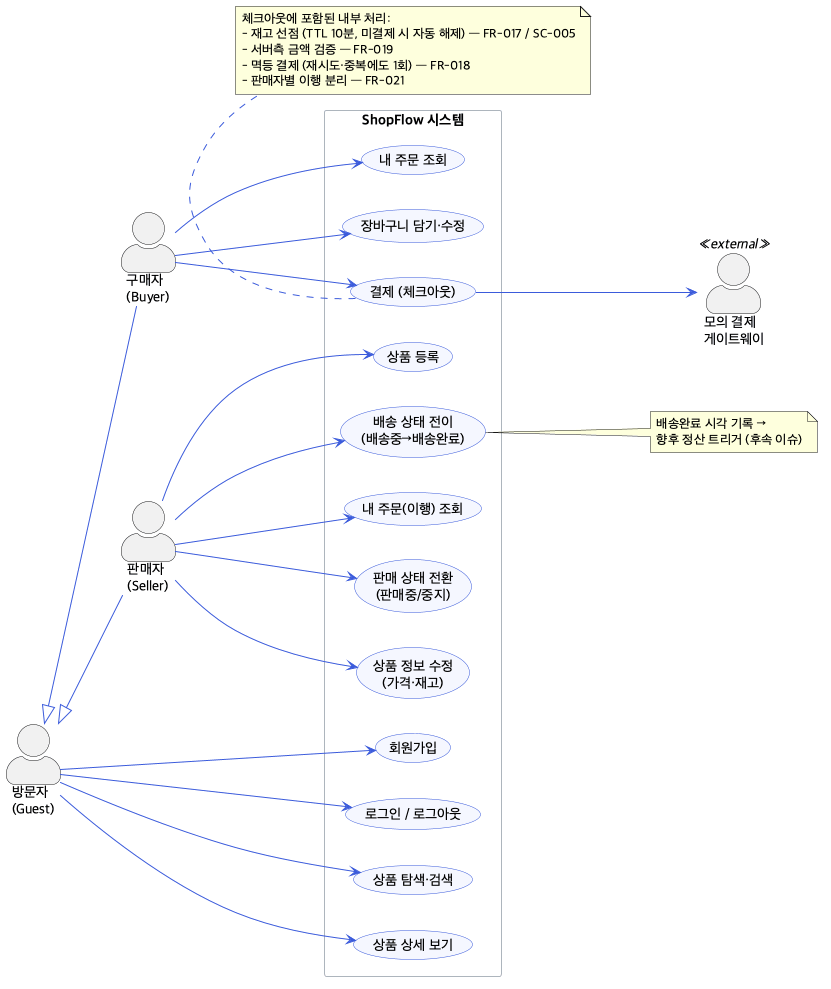
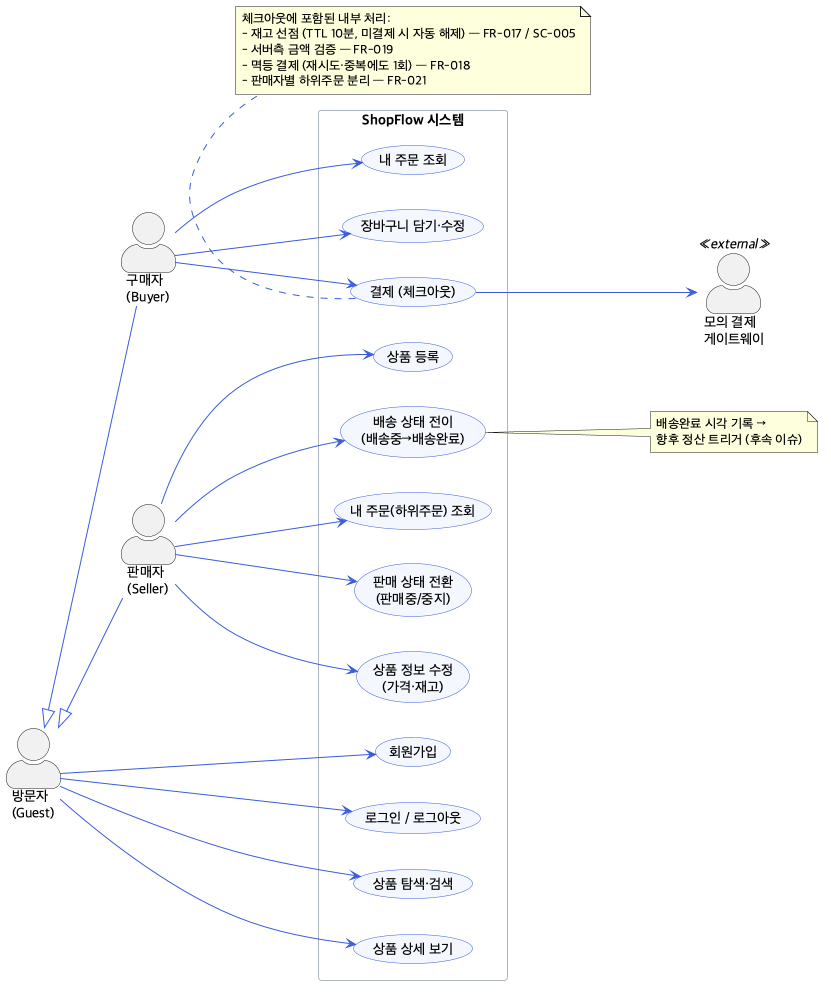
refactor(spec): Fulfillment → SubOrder(하위주문) 용어 개편 (#2)
- 모델을 Order→SubOrder→OrderLine 2계층 하위주문 구조로 재표현(안 A)
- data-model/plan/research/contracts/quickstart/spec/usecases 용어 일괄 치환
- 도메인 클래스·유즈케이스·비즈니스 프로세스 다이어그램 재렌더
- ADR-0005 제목·본문, ADR README 반영
- spec 핵심 엔티티에서 SubOrder와 OrderLine 명확히 분리

Refs #2

diff --git a/specs/001-marketplace-core/data-model.md b/specs/001-marketplace-core/data-model.md
@@ -13,15 +13,15 @@
 User 1─* Product           (판매자 소유)
 User 1─1 Cart 1─* CartItem  (구매자 장바구니)
 User 1─* Order              (구매자 주문)
-Order 1─* Fulfillment       (판매자별 이행 단위)
-Fulfillment *─1 User(seller)
-Fulfillment 1─* OrderLine   (스냅샷 라인)
+Order 1─* SubOrder       (판매자별 하위주문)
+SubOrder *─1 User(seller)
+SubOrder 1─* OrderLine   (스냅샷 라인)
 Order 1─1 Payment
 Product 1─* StockReservation
 Payment 1─1 PaymentIdempotency(key)
 ```
 
-> User는 역할(구매자/판매자)을 복수 보유(FR-004). "판매자"는 상품·이행 단위를 소유한 User.
+> User는 역할(구매자/판매자)을 복수 보유(FR-004). "판매자"는 상품·하위주문을 소유한 User.
 
 ---
 
@@ -86,26 +86,26 @@ Payment 1─1 PaymentIdempotency(key)
 | buyerId | Long (FK→User) | 구매자 |
 | totalKrw | long | 총액(정수 원), 서버 산출 (FR-019) |
 | shippingAddress | Address(값) | 배송지(수령인·주소·연락처) |
-| status | OrderStatus | 이행 단위 집계 상태 |
+| status | OrderStatus | 하위주문 집계 상태 |
 | placedAt | Instant | 결제완료 시각 |
 
 - **OrderStatus**(enum, 집계): `PAID`, `PARTIALLY_SHIPPED`, `SHIPPED`, `COMPLETED`.
-  이행 단위 상태들의 집계로 산출(R4). (예: 전 이행 DELIVERED → `COMPLETED`.)
+  하위주문 상태들의 집계로 산출(R4). (예: 모든 하위주문이 DELIVERED → `COMPLETED`.)
 - 한 번의 결제 = 하나의 Order(멱등, R3).
 
-## Fulfillment (이행 단위 = 판매자별 하위 주문)
+## SubOrder (하위주문 = 판매자별 하위 주문)
 
 | 필드 | 타입 | 설명 |
 |---|---|---|
-| id | Long (PK) | 이행 단위 식별자 |
+| id | Long (PK) | 하위주문 식별자 |
 | orderId | Long (FK→Order) | 소속 주문 |
 | sellerId | Long (FK→User) | 담당 판매자 |
 | subtotalKrw | long | 이 판매자 분 소계(정수 원) — 향후 정산 기준 |
-| status | FulfillmentStatus | 이행 상태 |
+| status | SubOrderStatus | 배송 상태 |
 | shippedAt | Instant? | 배송중 전이 시각 |
 | deliveredAt | Instant? | 배송완료 시각(향후 정산 트리거) |
 
-- **FulfillmentStatus**(enum): `PAID`(결제완료) → `SHIPPING`(배송중) → `DELIVERED`(배송완료).
+- **SubOrderStatus**(enum): `PAID`(결제완료) → `SHIPPING`(배송중) → `DELIVERED`(배송완료).
 - **상태 전이 규칙**(R4, FR-011/FR-022):
   - 허용: `PAID→SHIPPING`, `SHIPPING→DELIVERED`.
   - 금지: 건너뛰기(`PAID→DELIVERED`), 역행(`SHIPPING→PAID` 등).
@@ -117,7 +117,7 @@ Payment 1─1 PaymentIdempotency(key)
 | 필드 | 타입 | 설명 |
 |---|---|---|
 | id | Long (PK) | 식별자 |
-| fulfillmentId | Long (FK→Fulfillment) | 소속 이행 단위 |
+| subOrderId | Long (FK→SubOrder) | 소속 하위주문 |
 | productId | Long (FK→Product) | 참조 상품 |
 | productNameSnapshot | String | 결제 시점 상품명 스냅샷 |
 | unitPriceKrwSnapshot | long | 결제 시점 단가 스냅샷 (FR-023) |
@@ -182,6 +182,6 @@ Payment 1─1 PaymentIdempotency(key)
 
 1. `0 ≤ product.reserved ≤ product.stock` (초과 판매 불가, SC-003).
 2. 하나의 `idempotencyKey`는 최대 하나의 `Order`를 생성한다(SC-004).
-3. `Fulfillment` 상태 전이는 허용 경로만(R4).
+3. `SubOrder` 상태 전이는 허용 경로만(R4).
 4. `OrderLine`의 단가·상품명은 결제 후 불변(FR-023).
 5. 금액 필드는 모두 정수 원, 음수 불가(R7).

diff --git a/specs/001-marketplace-core/usecases.md b/specs/001-marketplace-core/usecases.md
@@ -34,7 +34,7 @@
 | UC-08 | 장바구니 담기·수정 | 구매자 | P1 | US1 |
 | UC-09 | 결제 (체크아웃) | 구매자 | P1 | US1 |
 | UC-10 | 내 주문 조회 (구매자) | 구매자 | P2 | US5 |
-| UC-11 | 내 주문(이행) 조회 (판매자) | 판매자 | P2 | US4 |
+| UC-11 | 내 주문(하위주문) 조회 (판매자) | 판매자 | P2 | US4 |
 | UC-12 | 배송 상태 전이 | 판매자 | P2 | US4 |
 
 ---
@@ -203,7 +203,7 @@
 - **사후조건(성공)**:
   - 주문이 "결제완료" 상태로 생성된다.
   - 결제 수량만큼 재고가 확정 차감된다.
-  - 여러 판매자 상품이면 판매자별 이행 단위(하위 주문)로 분리된다.
+  - 여러 판매자 상품이면 판매자별 하위주문으로 분리된다.
   - 결제 시점 가격·상품 정보가 스냅샷으로 보존된다.
 - **사후조건(실패)**: 주문이 생성되지 않고 선점 재고는 해제(또는 미차감)되어 재고가 보존된다.
 
@@ -213,7 +213,7 @@
 3. 시스템이 주문 수량만큼 재고를 선점한다(TTL 10분, FR-017).
 4. 시스템이 멱등키로 결제를 처리한다 — 모의 결제 게이트웨이에 승인 요청(FR-018, FR-024).
 5. 결제 성공 시, 시스템이 선점을 확정 차감으로 전환하고 주문을 "결제완료"로 생성한다.
-6. 시스템이 판매자별 이행 단위로 분리하고 상품 스냅샷을 저장한다(FR-021, FR-023).
+6. 시스템이 판매자별 하위주문으로 분리하고 상품 스냅샷을 저장한다(FR-021, FR-023).
 7. 시스템이 결제 완료와 주문 번호를 구매자에게 안내한다.
 
 **대안/예외 흐름**
@@ -246,25 +246,25 @@
 **기본 흐름**
 1. 구매자가 내 주문 목록을 연다.
 2. 시스템이 구매자의 주문을 상태·금액·판매자와 함께 보여준다.
-3. 구매자가 주문 상세를 열면 판매자별 이행 단위와 각 상태를 구분해 보여준다.
+3. 구매자가 주문 상세를 열면 판매자별 하위주문과 각 상태를 구분해 보여준다.
 
 **대안/예외 흐름**
 - 2a. 주문 이력 없음 → 빈 목록 안내.
 
 ---
 
-## UC-11 내 주문(이행) 조회 (판매자)
+## UC-11 내 주문(하위주문) 조회 (판매자)
 
 - **주요 액터**: 판매자
-- **목적**: 자신에게 배정된 이행 단위 주문을 확인한다.
+- **목적**: 자신에게 배정된 하위주문을 확인한다.
 - **관련 요구사항**: FR-009, FR-010, FR-021
 - **관련 성공 기준**: SC-007
 - **사전조건**: 판매자로 로그인.
-- **사후조건(성공)**: 판매자 자신에게 해당하는 이행 단위만 표시된다.
+- **사후조건(성공)**: 판매자 자신에게 해당하는 하위주문만 표시된다.
 
 **기본 흐름**
 1. 판매자가 자기 주문 목록을 연다.
-2. 시스템이 그 판매자에게 배정된 이행 단위(하위 주문)만 보여준다.
+2. 시스템이 그 판매자에게 배정된 하위주문만 보여준다.
 
 **대안/예외 흐름**
 - 2a. 타 판매자 주문 접근 시도 → 노출·접근 차단(FR-009).
@@ -274,15 +274,15 @@
 ## UC-12 배송 상태 전이
 
 - **주요 액터**: 판매자
-- **목적**: 이행 단위 주문을 "배송중" → "배송완료"로 갱신한다.
+- **목적**: 하위주문을 "배송중" → "배송완료"로 갱신한다.
 - **관련 요구사항**: FR-011, FR-022
 - **관련 성공 기준**: SC-006
-- **사전조건**: 판매자가 해당 이행 단위의 소유자, 주문이 "결제완료" 이상 상태.
+- **사전조건**: 판매자가 해당 하위주문의 소유자, 주문이 "결제완료" 이상 상태.
 - **사후조건(성공)**: 상태가 전이되고 전이 시각·이력이 감사 로그로 기록된다. 배송완료 시
   완료 시각이 남아 향후 정산의 트리거가 된다.
 
 **기본 흐름**
-1. 판매자가 이행 단위 주문의 상태를 "배송중"으로 바꾼다.
+1. 판매자가 하위주문의 상태를 "배송중"으로 바꾼다.
 2. 시스템이 상태를 갱신하고 구매자 주문 화면에도 반영한다.
 3. 판매자가 이후 "배송완료"로 바꾼다.
 4. 시스템이 배송완료 시각을 기록하고 상태 전이를 감사 로그에 남긴다.
@@ -290,7 +290,7 @@
 **대안/예외 흐름**
 - 1a. 허용되지 않은 상태 전이(예: 결제완료 → 배송완료로 건너뛰기) → 거절하고 유효한
   다음 상태만 허용한다.
-- 1b. 타 판매자 이행 단위 접근 → 권한 없음으로 거절(FR-009).
+- 1b. 타 판매자 하위주문 접근 → 권한 없음으로 거절(FR-009).
 
 ---
 

diff --git a/specs/001-marketplace-core/spec.md b/specs/001-marketplace-core/spec.md
@@ -48,7 +48,7 @@
    결제가 여러 번 도달하면, **Then** 결제는 정확히 한 번만 처리되고 주문도 하나만
    생성된다.
 4. **Given** 한 장바구니에 여러 판매자의 상품이 담긴 상태, **When** 결제를 완료하면,
-   **Then** 판매자별 이행 단위(하위 주문)로 분리되어 각각 추적된다.
+   **Then** 판매자별 하위주문으로 분리되어 각각 추적된다.
 
 ---
 
@@ -111,8 +111,8 @@
 **수락 시나리오**:
 
 1. **Given** 결제완료된 주문, **When** 판매자가 자기 주문 목록을 열면, **Then** 자신에게
-   해당하는 이행 단위만 보인다.
-2. **Given** 판매자의 이행 단위 주문, **When** 상태를 "배송중"으로 바꾸면, **Then** 구매자
+   해당하는 하위주문만 보인다.
+2. **Given** 판매자의 하위주문, **When** 상태를 "배송중"으로 바꾸면, **Then** 구매자
    주문 화면에도 "배송중"으로 표시된다.
 3. **Given** "배송중" 상태의 주문, **When** 판매자가 "배송완료"로 바꾸면, **Then** 배송완료
    시각이 기록되고 상태 전이가 감사 로그에 남는다.
@@ -134,7 +134,7 @@
 1. **Given** 결제를 마친 구매자, **When** 내 주문 목록을 열면, **Then** 방금 주문한 건이
    상태·금액·판매자와 함께 표시된다.
 2. **Given** 여러 판매자 상품을 한 번에 산 주문, **When** 주문 상세를 열면, **Then** 판매자별
-   이행 단위와 각 상태가 구분되어 보인다.
+   하위주문과 각 상태가 구분되어 보인다.
 
 ---
 
@@ -169,8 +169,8 @@
 - **FR-008**: 판매자는 상품을 판매중/판매중지로 전환할 수 있어야 하며, 판매중지 상품은
   구매자 목록·검색에 노출되지 않아야 한다.
 - **FR-009**: 시스템은 판매자가 자신의 상품·주문에만 접근·수정하도록 제한해야 한다.
-- **FR-010**: 판매자는 자신에게 배정된 주문(이행 단위) 목록을 조회할 수 있어야 한다.
-- **FR-011**: 판매자는 이행 단위 주문 상태를 "배송중" → "배송완료"로 전이할 수 있어야 하며,
+- **FR-010**: 판매자는 자신에게 배정된 주문(하위주문) 목록을 조회할 수 있어야 한다.
+- **FR-011**: 판매자는 하위주문 상태를 "배송중" → "배송완료"로 전이할 수 있어야 하며,
   각 전이는 시각과 함께 기록되어야 한다.
 
 **구매(구매자)**
@@ -189,8 +189,8 @@
   신뢰하지 않아야 한다.
 - **FR-020**: 시스템은 한정 재고에 대한 동시 구매를 안전하게 처리하여 초과 판매를 방지해야
   한다.
-- **FR-021**: 하나의 주문이 여러 판매자 상품을 포함하면, 시스템은 판매자별 이행 단위(하위
-  주문)로 분리하여 각각의 상태를 독립적으로 추적해야 한다.
+- **FR-021**: 하나의 주문이 여러 판매자 상품을 포함하면, 시스템은 판매자별 하위주문으로
+  분리하여 각각의 상태를 독립적으로 추적해야 한다.
 - **FR-022**: 주문은 명시적 상태(결제완료 → 배송중 → 배송완료)를 가지며, 각 상태 전이는
   감사 가능하도록 기록되어야 한다.
 - **FR-023**: 결제된 주문은 결제 시점의 가격·상품 정보를 스냅샷으로 보존하여, 이후 상품
@@ -210,8 +210,10 @@
 - **장바구니(Cart) / 장바구니 항목(CartItem)**: 구매자가 담은 상품과 수량.
 - **재고 선점(StockReservation)**: 결제 진행 중 임시로 잡아 둔 수량과 만료 시각.
 - **주문(Order)**: 한 번의 결제로 생성된 구매 단위. 구매자, 총액, 배송지, 전체 상태.
-- **이행 단위(주문 항목/하위 주문, OrderLine/SubOrder)**: 판매자별로 분리된 주문 조각.
-  상품 스냅샷, 수량, 금액, 판매자, 이행 상태(결제완료/배송중/배송완료).
+- **하위주문(SubOrder)**: 하나의 주문을 판매자별로 나눈 조각(판매자 1명 단위). 담당 판매자,
+  소계 금액, 배송 상태(결제완료/배송중/배송완료), 배송완료 시각.
+- **주문 라인(OrderLine)**: 하위주문에 속한 개별 상품 항목. 상품 참조, 결제 시점 상품명·단가
+  스냅샷, 수량.
 - **결제(Payment)**: 주문에 대한 결제 시도·결과. 멱등키, 금액, 상태.
 
 ## 성공 기준 *(필수)*

diff --git a/docs/adr/0005-per-seller-order-splitting.md b/docs/adr/0005-per-seller-order-splitting.md
@@ -1,4 +1,4 @@
-# ADR-0005: 멀티셀러 주문을 판매자별 이행 단위로 분리
+# ADR-0005: 멀티셀러 주문을 판매자별 하위주문으로 분리
 
 - **상태**: 수용(Accepted)
 - **날짜**: 2026-07-16
@@ -7,30 +7,30 @@
 ## 맥락 및 문제
 
 구매자는 한 번의 결제로 여러 판매자의 상품을 함께 살 수 있다. 그러나 배송·상태 관리·향후
-정산은 판매자 단위로 이뤄져야 한다. 주문을 단일 덩어리로만 다루면 판매자별 이행·정산을
+정산은 판매자 단위로 이뤄져야 한다. 주문을 단일 덩어리로만 다루면 판매자별 하위주문·정산을
 분리 추적할 수 없다.
 
 ## 검토한 선택지
 
 1. **단일 주문 단위로만 관리** — 여러 판매자가 한 상태를 공유. 이행/정산 분리 불가.
-2. **주문(결제 단위) + 판매자별 이행 단위(하위 주문)로 분리** — 결제는 하나, 이행·상태는
+2. **주문(결제 단위) + 판매자별 하위주문으로 분리** — 결제는 하나, 이행·상태는
    판매자별로 독립.
 
 ## 결정
 
-**한 번의 결제로 생성된 주문은 판매자별 이행 단위(하위 주문)로 분리하여 각각의 상태를
-독립적으로 추적한다.** 결제·총액은 주문 단위로, 배송 상태 전이·정산 기준 금액은 이행 단위로
+**한 번의 결제로 생성된 주문은 판매자별 하위주문으로 분리하여 각각의 상태를
+독립적으로 추적한다.** 결제·총액은 주문 단위로, 배송 상태 전이·정산 기준 금액은 하위주문으로
 관리한다.
 
 ## 근거
 
 - 판매자별 배송 처리·상태 관리가 자연스럽게 분리된다(FR-021).
-- 배송완료 시각·판매자별 금액을 이행 단위에 기록해 두면, 후속 정산 기능이 이 구조 위에서
+- 배송완료 시각·판매자별 금액을 하위주문에 기록해 두면, 후속 정산 기능이 이 구조 위에서
   바로 동작한다(원칙 VII).
 - 구매자는 하나의 주문으로 보되, 상세에서 판매자별 이행 상태를 구분해 볼 수 있다.
 
 ## 결과
 
-- **좋은 점**: 판매자별 이행·정산 확장에 유연, 상태 전이 책임이 명확.
-- **나쁜 점/트레이드오프**: 주문-이행 단위의 2계층 모델로 데이터·조회가 다소 복잡해진다.
-  주문 전체 상태는 이행 단위 상태들의 집계로 표현한다.
+- **좋은 점**: 판매자별 하위주문·정산 확장에 유연, 상태 전이 책임이 명확.
+- **나쁜 점/트레이드오프**: 주문-하위주문의 2계층 모델로 데이터·조회가 다소 복잡해진다.
+  주문 전체 상태는 하위주문 상태들의 집계로 표현한다.

diff --git a/specs/001-marketplace-core/research.md b/specs/001-marketplace-core/research.md
@@ -45,12 +45,12 @@
   - 분산 락: 인프라 복잡, 저장소 유니크 제약으로 충분.
 - **보존**: 멱등 레코드는 최소 주문 조회 기간 동안 보존(구체 기간은 운영 정책, 기본 90일 가정).
 
-## R4. 주문·이행 단위 상태 기계
+## R4. 주문·하위주문 상태 기계
 
 - **결정**: **2계층 상태 모델.**
-  - 이행 단위(Fulfillment) 상태: `PAID`(결제완료) → `SHIPPING`(배송중) → `DELIVERED`(배송완료).
+  - 하위주문(SubOrder) 상태: `PAID`(결제완료) → `SHIPPING`(배송중) → `DELIVERED`(배송완료).
     허용 전이만 서비스에서 강제(건너뛰기·역행 거절).
-  - 주문(Order) 전체 상태: 이행 단위 상태들의 집계(예: 전부 DELIVERED면 주문도 완료 표시).
+  - 주문(Order) 전체 상태: 하위주문 상태들의 집계(예: 전부 DELIVERED면 주문도 완료 표시).
   - 각 전이는 감사 로그(전이 주체·시각·이전/이후 상태)를 남긴다(FR-022, 원칙 IV).
 - **근거**: 판매자별 이행을 독립 추적하면서 구매자에겐 하나의 주문으로 보인다([ADR-0005](../../docs/adr/0005-per-seller-order-splitting.md)).
 - **검토한 대안**: 단일 상태 필드만 → 판매자별 부분 배송을 표현 불가.
@@ -99,7 +99,7 @@
 | 동시성 제어 | 원자적 조건부 UPDATE(행 잠금 암묵), 트랜잭션 내 |
 | TTL 처리 | 스케줄 스윕(60초) + 지연 판정 |
 | 멱등 | 서버 발급 UUID + `payment_idempotency` 유니크 제약 |
-| 상태 기계 | 이행 단위 PAID→SHIPPING→DELIVERED, 주문은 집계 |
+| 상태 기계 | 하위주문 PAID→SHIPPING→DELIVERED, 주문은 집계 |
 | 결제 | `PaymentGateway` 어댑터 + `MockPaymentGateway` |
 | 인증 | Spring Security 세션 + BCrypt + CSRF |
 | 금액 | 정수 원(long) / `Money` 값객체 |

diff --git a/specs/001-marketplace-core/plan.md b/specs/001-marketplace-core/plan.md
@@ -43,7 +43,7 @@ Thymeleaf, Bean Validation(Hibernate Validator), Flyway(마이그레이션)
 - 재고 선점의 동시성 제어 방식(원자적 조건부 UPDATE vs 비관적 락 vs 낙관적 락)
 - 재고 선점 만료(TTL) 처리 메커니즘(스케줄 스윕 vs 지연 해제)
 - 멱등키 발급·저장·조회 방식
-- 주문/이행 단위 상태 기계 표현
+- 주문/하위주문 상태 기계 표현
 - 결제 어댑터 인터페이스 계약
 
 ## 헌장 준수 점검 (Constitution Check)
@@ -58,7 +58,7 @@ Thymeleaf, Bean Validation(Hibernate Validator), Flyway(마이그레이션)
 | IV. 관측성 | 구조화 로깅(SLF4J/logback), 주문·결제 상태 전이 감사 기록 + correlation id | ✅ |
 | V. 단순성·계층 | 단일 모놀리스, controller→service→repository, 뷰 로직 최소화 | ✅ |
 | VI. 한글 산출물 | 모든 설계·문서·주석·UI 한글 | ✅ |
-| VII. 마켓플레이스 | 판매자별 이행 단위 분리, 재고 선점, 멱등 결제 | ✅ |
+| VII. 마켓플레이스 | 판매자별 하위주문 분리, 재고 선점, 멱등 결제 | ✅ |
 | VIII. 워크플로 | 이슈 #2 → feature 브랜치 → PR 예정 | ✅ |
 
 **게이트 결과**: 위반 없음 → Complexity Tracking 비움.
@@ -93,7 +93,7 @@ src/main/java/com/shopflow/
 │   ├── domain/  web/  repository/
 ├── cart/             # 장바구니 (Cart, CartItem)
 │   ├── domain/  web/  repository/
-├── order/            # 주문·이행 단위·상태 기계 (Order, Fulfillment)
+├── order/            # 주문·하위주문·상태 기계 (Order, SubOrder)
 │   ├── domain/  web/  repository/
 ├── payment/          # 결제 어댑터·멱등 (PaymentGateway, MockPaymentGateway, Idempotency)
 │   ├── domain/  adapter/  repository/

diff --git a/specs/001-marketplace-core/quickstart.md b/specs/001-marketplace-core/quickstart.md
@@ -67,10 +67,10 @@ direnv exec . ./mvnw spring-boot:run        # http://localhost:${BACKEND_PORT:-1
 1. 모의 게이트웨이가 거절하도록 트리거해 결제.
 2. **기대**: 주문 미생성, 선점 해제로 재고 원복, 실패 사유 안내.
 
-### S7. 판매자별 이행 분리·배송 전이 (US4 / SC-006)
+### S7. 판매자별 하위주문 분리·배송 전이 (US4 / SC-006)
 
 1. 서로 다른 두 판매자 상품을 한 번에 결제.
-2. `/orders/{id}`에서 판매자별 이행 단위 2개 확인.
+2. `/orders/{id}`에서 판매자별 하위주문 2개 확인.
 3. 각 판매자가 `/seller/orders`에서 본인 건만 보고 `ship`→`deliver` 전이.
 4. **기대**: 구매자 주문 상세에 판매자별 상태가 각각 반영, 배송완료 시각 기록.
 

diff --git a/docs/adr/README.md b/docs/adr/README.md
@@ -19,7 +19,7 @@
 | [0002](./0002-payment-external-delegation-mock-gateway.md) | 결제는 외부 위임, MVP는 모의 게이트웨이 | 수용 | II |
 | [0003](./0003-idempotent-payment-exactly-once.md) | 멱등키로 정확히 한 번 결제 | 수용 | III, VII |
 | [0004](./0004-stock-reservation-ttl.md) | 결제 전 재고 선점 + TTL 자동 해제 | 수용 | III, VII |
-| [0005](./0005-per-seller-order-splitting.md) | 멀티셀러 주문을 판매자별 이행 단위로 분리 | 수용 | VII |
+| [0005](./0005-per-seller-order-splitting.md) | 멀티셀러 주문을 판매자별 하위주문으로 분리 | 수용 | VII |
 | [0006](./0006-money-fixed-precision.md) | 금액은 고정소수점(정수 최소단위)으로 처리 | 수용 | III |
 | [0007](./0007-issue-branch-pr-workflow.md) | 이슈 → 브랜치 → PR 워크플로 강제 | 수용 | VIII |
 